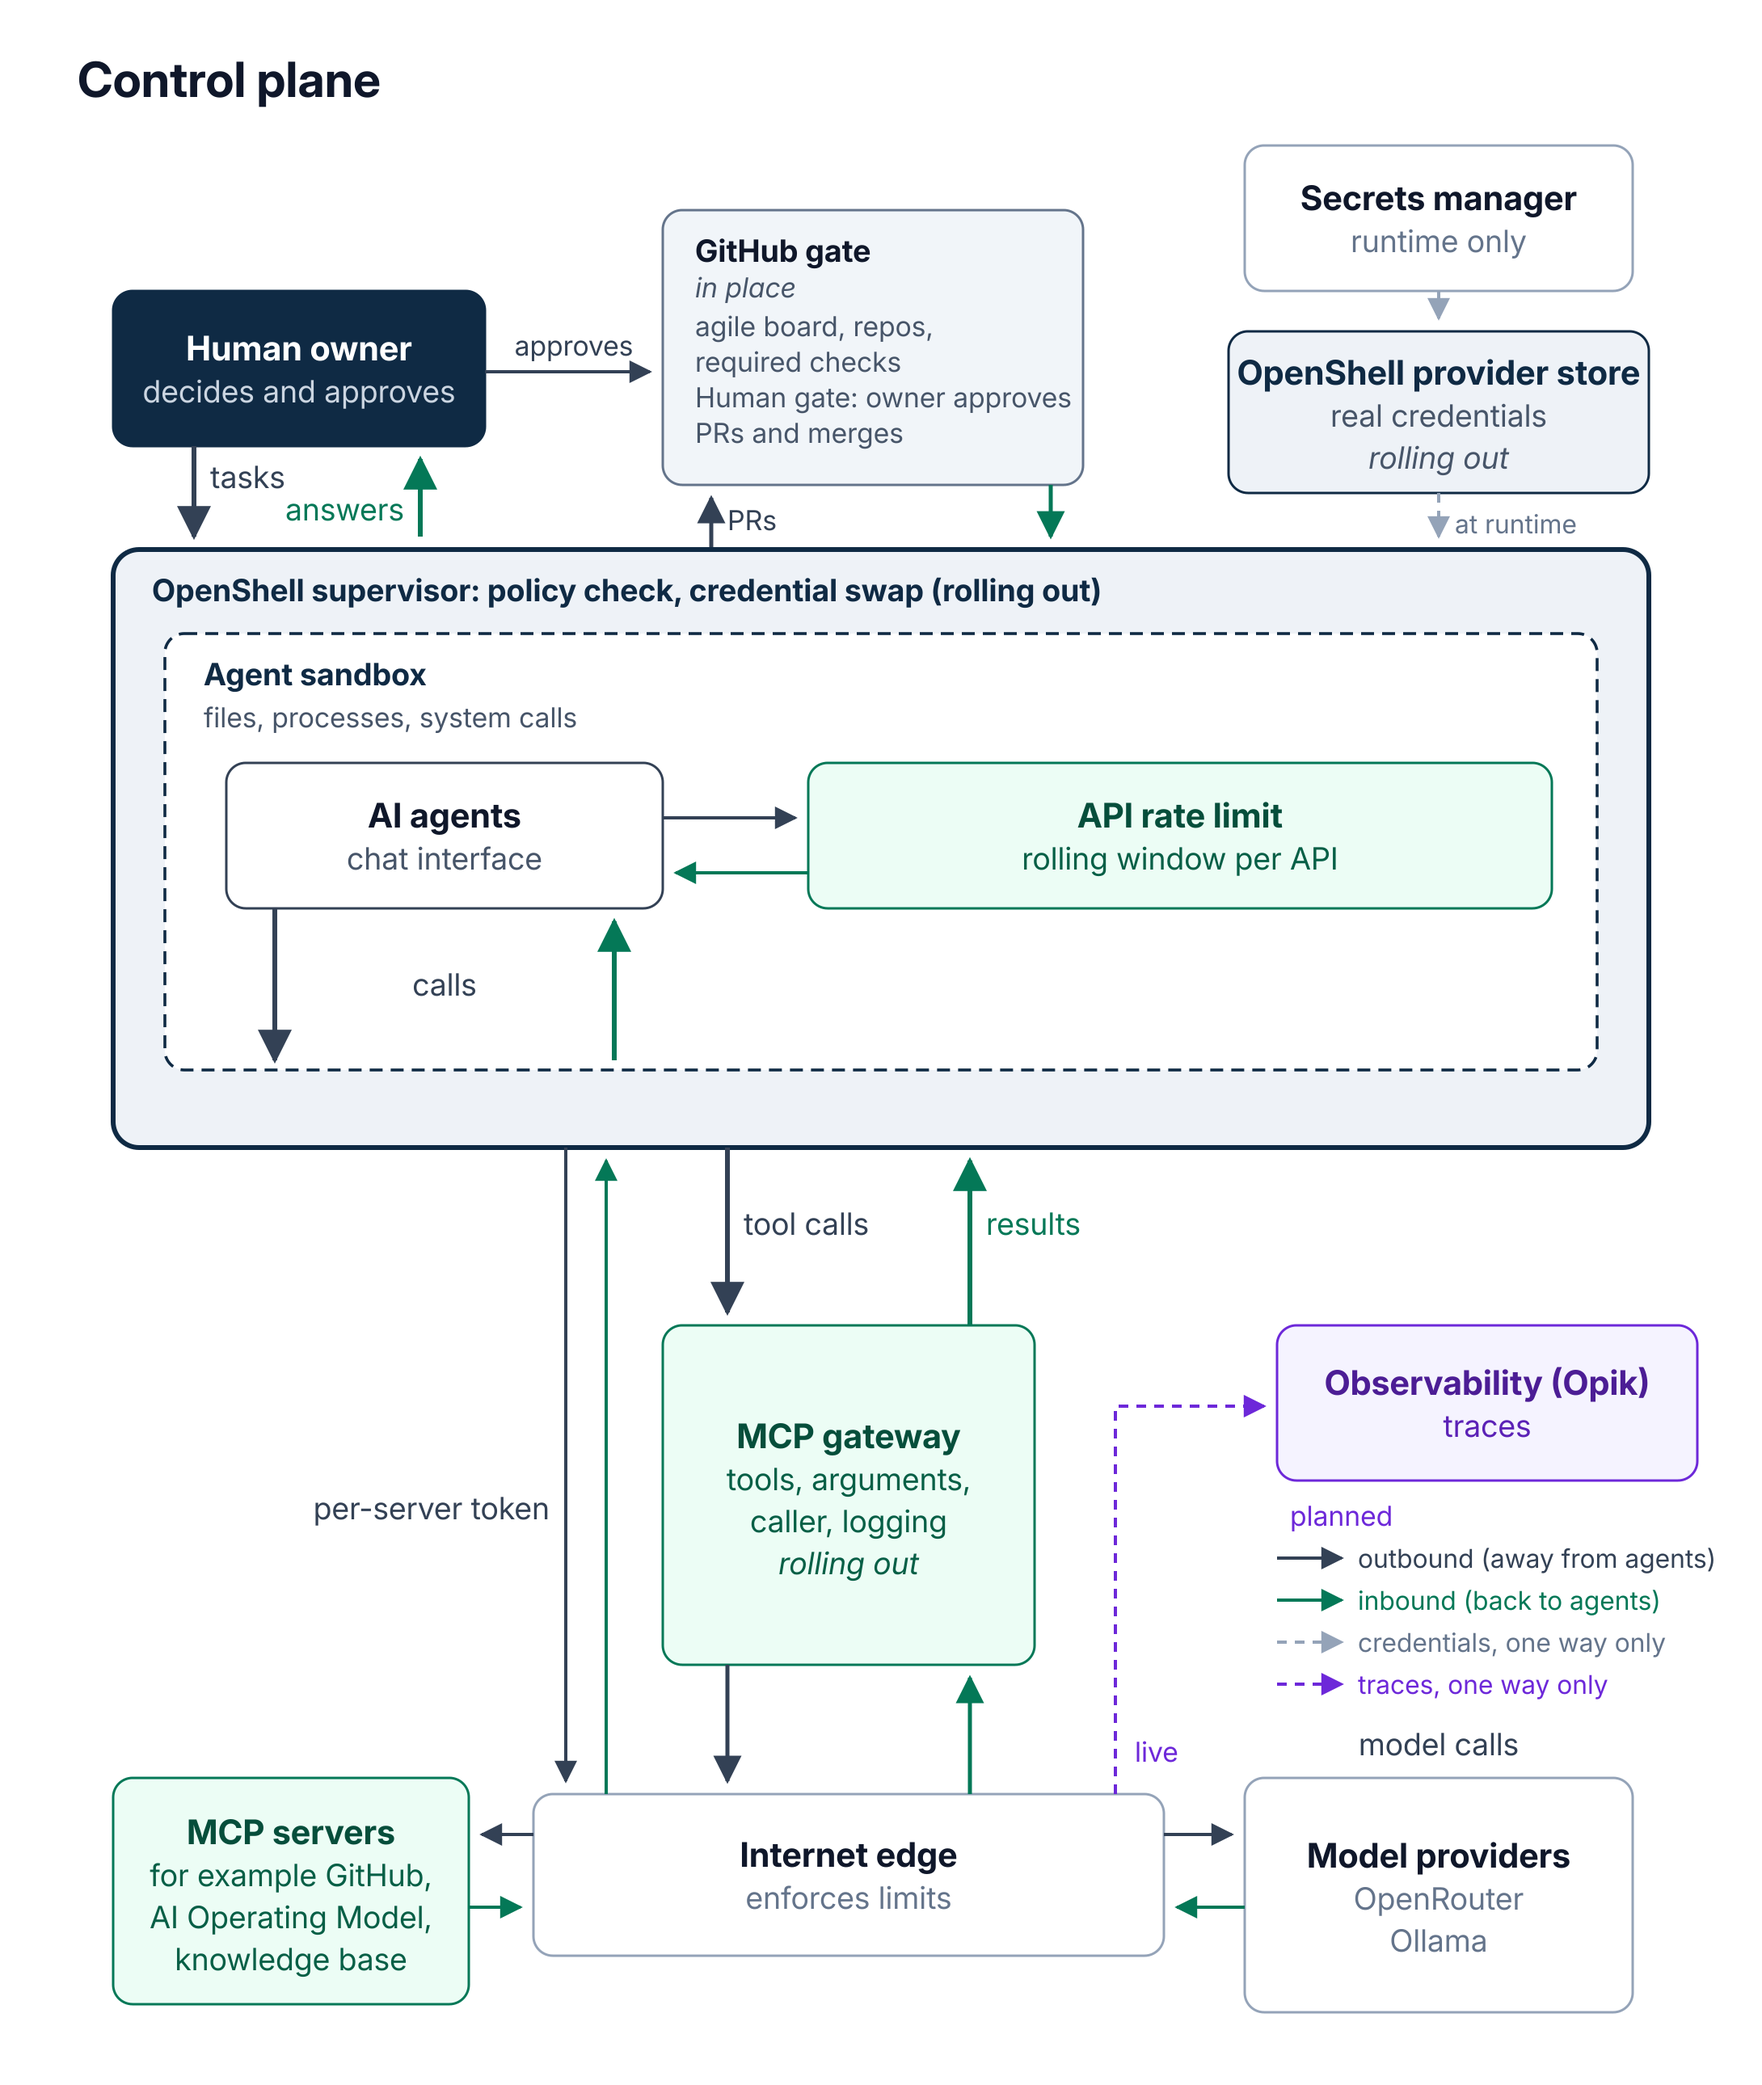
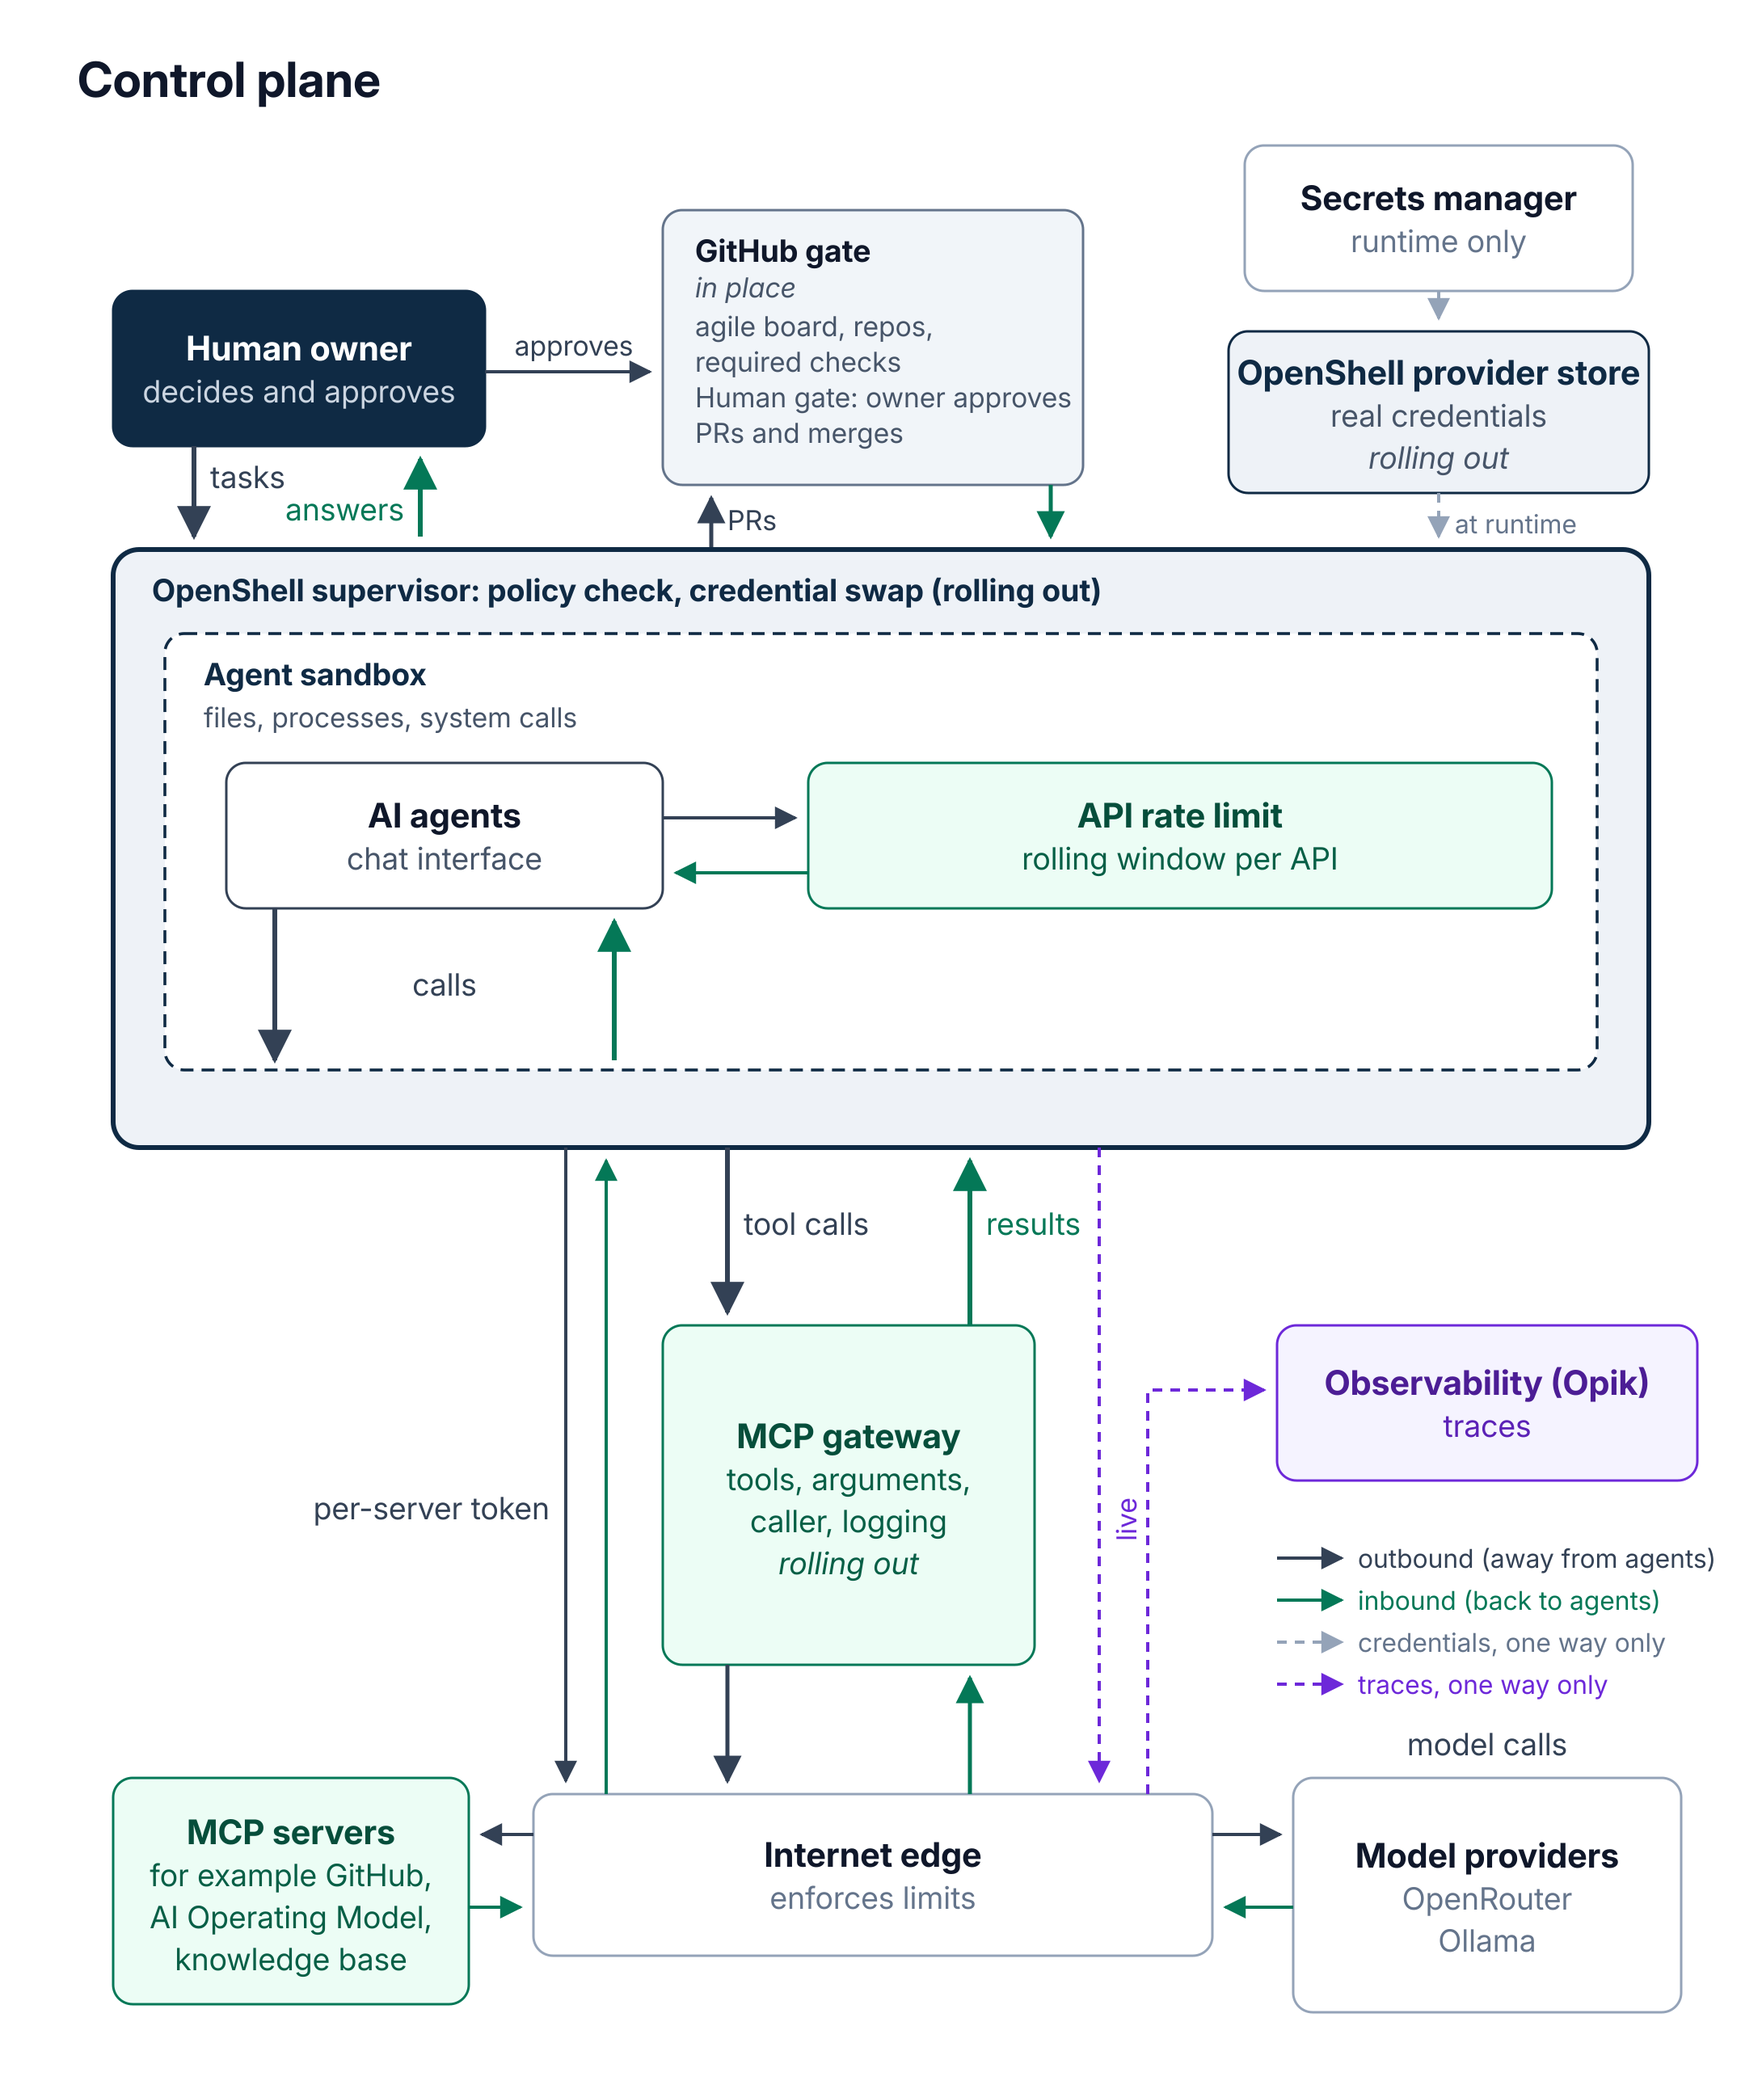
docs: remove MCP gateway trace from control-plane diagram

diff --git a/README.md b/README.md
@@ -10,11 +10,11 @@ A working pattern for running AI agents under enterprise security controls.
 - **Approval gates and enforced controls.** What runs on its own, what waits for a human, and which controls a machine actually enforces.
 - **Jarvis.** A personal AI on Rokid Glasses that I use as a real-world lab for guardrails and model testing.
 
-![Control plane: AI agents run inside an agent sandbox (OpenShell) that confines files, processes, and system calls, with an API rate limit in the sandbox. Every network call leaves through the OpenShell supervisor, which checks policy and swaps in the real credential from the OpenShell provider store, fed at runtime by the secrets manager. Tool calls go to the MCP gateway, which checks tools, arguments, and caller, logs each call, and fronts one MCP servers group (for example GitHub, AI Operating Model, knowledge base). Model calls go to model providers (OpenRouter, Ollama). The Internet edge enforces limits outside the sandbox. The GitHub gate is the human gate: the owner approves PRs and merges. Opik traces model calls; the gateway tool-call trace is planned](diagrams/01-control-plane.png)
+![Control plane: AI agents run inside an agent sandbox (OpenShell) that confines files, processes, and system calls, with an API rate limit in the sandbox. Every network call leaves through the OpenShell supervisor, which checks policy and swaps in the real credential from the OpenShell provider store, fed at runtime by the secrets manager. Tool calls go to the MCP gateway, which checks tools, arguments, and caller, logs each call, and fronts one MCP servers group (for example GitHub, AI Operating Model, knowledge base). Model calls go to model providers (OpenRouter, Ollama). The Internet edge enforces limits outside the sandbox. The GitHub gate is the human gate: the owner approves PRs and merges. Opik traces model calls](diagrams/01-control-plane.png)
 
 *The control plane: OpenShell is the outer boundary, every tool call goes through the MCP gateway, and anything consequential routes back to me for approval.*
 
-Two separate layers, on purpose. [OpenShell](https://github.com/NVIDIA/OpenShell) is the outer boundary. The agents run inside its sandbox, and every network call leaves through its supervisor, which checks policy and swaps in the real credential. The MCP gateway sits outside the sandbox and checks every tool call: which tools, which arguments, and which caller, with every call logged. It fronts one group of MCP servers, such as GitHub, the AI Operating Model, and the knowledge base. API rate limiting runs in the sandbox, and the Internet edge enforces limits outside it. PRs and merges reach me through the pipeline at the GitHub gate, not through MCP. Both layers are tested, and now rolling out more widely. Opik traces model calls from OpenRouter, Ollama, and local resources. Tracing gateway tool calls is planned.
+Two separate layers, on purpose. [OpenShell](https://github.com/NVIDIA/OpenShell) is the outer boundary. The agents run inside its sandbox, and every network call leaves through its supervisor, which checks policy and swaps in the real credential. The MCP gateway sits outside the sandbox and checks every tool call: which tools, which arguments, and which caller, with every call logged. It fronts one group of MCP servers, such as GitHub, the AI Operating Model, and the knowledge base. API rate limiting runs in the sandbox, and the Internet edge enforces limits outside it. PRs and merges reach me through the pipeline at the GitHub gate, not through MCP. Both layers are tested, and now rolling out more widely. Opik traces model calls from OpenRouter, Ollama, and local resources.
 
 ### At a glance
 

diff --git a/docs/overview.md b/docs/overview.md
@@ -1,6 +1,6 @@
 # AI Operating Model: governing AI agents with security controls as code
 
-![Control plane: AI agents run inside an agent sandbox (OpenShell) that confines files, processes, and system calls, with an API rate limit in the sandbox. Every network call leaves through the OpenShell supervisor, which checks policy and swaps in the real credential from the OpenShell provider store, fed at runtime by the secrets manager. Tool calls go to the MCP gateway, which checks tools, arguments, and caller, logs each call, and fronts one MCP servers group (for example GitHub, AI Operating Model, knowledge base). Model calls go to model providers (OpenRouter, Ollama). The Internet edge enforces limits outside the sandbox. The GitHub gate is the human gate: the owner approves PRs and merges. Opik traces model calls; the gateway tool-call trace is planned](../diagrams/01-control-plane.png)
+![Control plane: AI agents run inside an agent sandbox (OpenShell) that confines files, processes, and system calls, with an API rate limit in the sandbox. Every network call leaves through the OpenShell supervisor, which checks policy and swaps in the real credential from the OpenShell provider store, fed at runtime by the secrets manager. Tool calls go to the MCP gateway, which checks tools, arguments, and caller, logs each call, and fronts one MCP servers group (for example GitHub, AI Operating Model, knowledge base). Model calls go to model providers (OpenRouter, Ollama). The Internet edge enforces limits outside the sandbox. The GitHub gate is the human gate: the owner approves PRs and merges. Opik traces model calls](../diagrams/01-control-plane.png)
 
 *The control plane: OpenShell is the outer boundary, every tool call goes through the MCP gateway, and anything consequential routes back to me.*
 
@@ -79,7 +79,7 @@ One of my projects collects data from a vendor API with strict rate limits. Goin
   - **Human gate.** I approve PRs and merges at the GitHub gate. Agents reach it through the pipeline, not through MCP.
   - **Known limits.** Responses aren't filtered yet, so I use only MCP servers I trust, each with its own least-privilege token. See [OpenShell's architecture](https://docs.nvidia.com/openshell/latest/about/architecture).
   - **Why both.** The gateway limits what an agent can ask for. The sandbox limits what it can touch if it ignores that or gets prompt-injected.
-- **Observability.** Opik traces model calls from OpenRouter, Ollama, and local resources. Tracing gateway tool calls is planned.
+- **Observability.** Opik traces model calls from OpenRouter, Ollama, and local resources.
 - **One secrets store.** Credentials are injected at runtime from a secrets manager, to the sandbox's provider store only. Nothing is committed, and CI does not keep a second copy.
 - **Least-privilege CI.** Pipeline jobs get a read-only token. Cloud access is off by default, and short-lived federated credentials are the only allowed pattern.
 - **Controls are enforced, not suggested.** Every change includes a Definition of Done checklist. GitHub Actions checks that the list is present and fully ticked. Items are self-attested. A GitHub ruleset blocks force-push and branch deletion and allows no bypass, not even for me. The ruleset requires the Definition of Done, gitleaks secrets scan, and Markdown lint checks before merge.

diff --git a/jarvis/README.md b/jarvis/README.md
@@ -49,7 +49,7 @@ Jarvis lets me test guardrails, configurations, and prompts against real use, fi
 - **At the edge:** Cloudflare filters and authenticates traffic before it reaches home, and the app checks credentials again on its own.
 - **Around tool calls:** Every tool call goes through an MCP gateway outside the sandbox. It checks which tool, which arguments, and which caller, and logs each call. It's tested, and now rolling out more widely.
 - **Around actions:** [OpenShell](https://github.com/NVIDIA/OpenShell) is the outer boundary, tested and now rolling out more widely. Jarvis runs inside its sandbox, and every network call leaves through its supervisor. Jarvis holds only a placeholder credential. The supervisor swaps in the real one for approved destinations. Responses aren't filtered yet, so Jarvis uses only trusted MCP servers, each with its own scoped token.
-- **Around visibility:** Opik traces model calls from OpenRouter, Ollama, and local resources. Tracing gateway tool calls is planned.
+- **Around visibility:** Opik traces model calls from OpenRouter, Ollama, and local resources.
 - **Around spending:** Cloud model use has a hard spending cap, and heavy jobs check the remaining budget before they run.
 - **Around uptime:** After an outage, Jarvis got a watchdog that runs outside the system it watches. It only acts after repeated failed checks, and it waits between restarts so it can't loop.
 - **Around its role:** When Jarvis once went beyond its agreed role, it wrote a blameless report on itself, and the lesson became a written rule.

diff --git a/jarvis/how-jarvis-works.md b/jarvis/how-jarvis-works.md
@@ -29,6 +29,6 @@
 
 - Every network call leaves the sandbox through the [OpenShell](https://github.com/NVIDIA/OpenShell) supervisor. Tool calls then go through an MCP gateway that checks the tool, its arguments, and the caller, and logs the call. Both are tested, and now rolling out more widely.
 - Jarvis runs inside the [OpenShell](https://github.com/NVIDIA/OpenShell) sandbox, with outbound traffic blocked by default. It holds only a placeholder credential, and the supervisor swaps in the real one for approved destinations.
-- Opik traces model calls from OpenRouter, Ollama, and local resources. Tracing gateway tool calls is planned.
+- Opik traces model calls from OpenRouter, Ollama, and local resources.
 - Cloud model use has a hard spending cap.
 - A watchdog outside the system restarts the bridge only after repeated failed checks.
